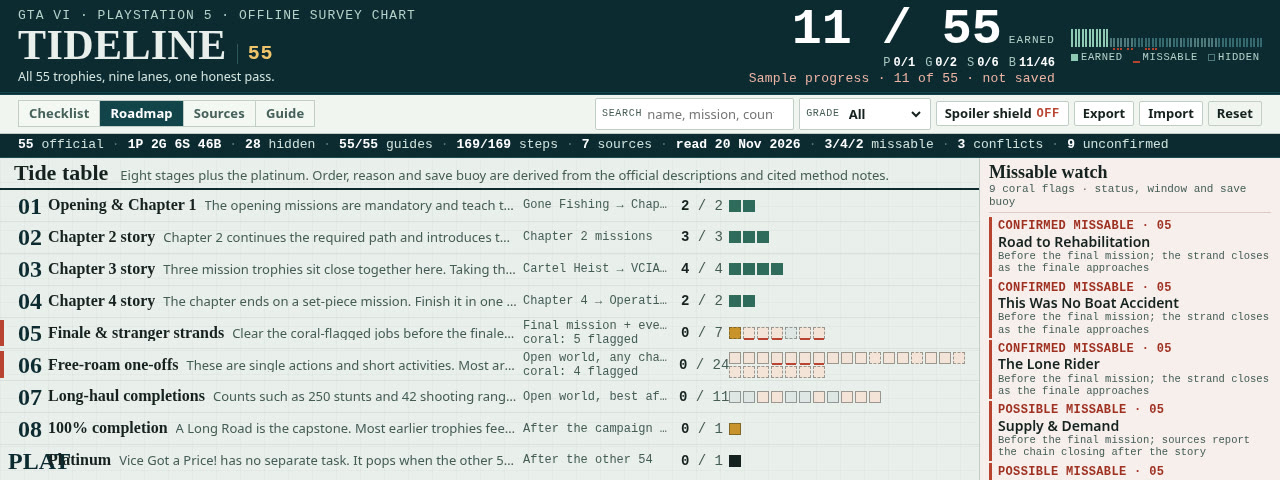
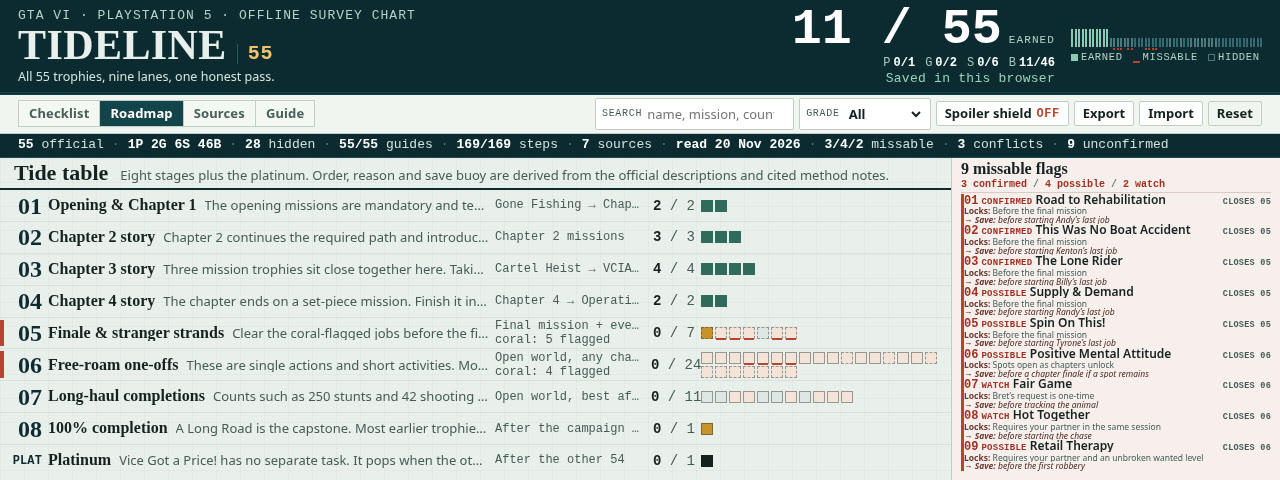
Show saved-state cover, a missable watch list, and citation domains
P0 presentation fixes for TIDELINE 55: the cover proves "Saved in this
browser" with the selected trophy row visible, the roadmap lists nine
missable flags in order, and citations show source domains and roles.
Recapture the four 1280x480 frames. Leave main.ts and vendor/ alone.

diff --git a/app/app.js b/app/app.js
@@ -154,6 +154,25 @@ function sourceName(n) {
   return sources[n] ? sources[n].name : `Source ${n}`;
 }
 
+function sourceDomain(n) {
+  const s = sources[n];
+  if (!s) return '';
+  if (!s.url) return 'in-game';
+  try {
+    return new URL(s.url).hostname.replace(/^www\./, '');
+  } catch (e) {
+    return String(s.url).replace(/^https?:\/\//, '').split('/')[0];
+  }
+}
+
+function compactClause(text) {
+  return String(text || '').split(/[;.]/)[0].replace(/\s+/g, ' ').trim();
+}
+
+function compactSave(text) {
+  return compactClause(String(text || '').replace(/^Manual save /i, ''));
+}
+
 function isHidden(t) {
   return spoiler && t.kind === 'story' && !earned.has(t.id);
 }
@@ -349,6 +368,21 @@ function renderNextUp() {
   els.nextup.title = isHidden(t) ? 'Next unearned trophy in roadmap order' : `Next unearned trophy: ${t.name}, lane ${stageFor(t).numeral}`;
 }
 
+function revealSelectedRow() {
+  const selectedTrophy = byId.get(selected);
+  if (!selectedTrophy || isHidden(selectedTrophy)) return;
+  const row = els.rows.querySelector(`.trow[data-id="${selected}"]`);
+  if (!row) return;
+  const listRect = els.rows.getBoundingClientRect();
+  const rowRect = row.getBoundingClientRect();
+  const pad = 4;
+  if (rowRect.top >= listRect.top + pad && rowRect.bottom <= listRect.bottom - pad) return;
+  const index = [...els.rows.querySelectorAll('.trow')].indexOf(row);
+  const above = Math.min(2, Math.max(0, index));
+  const target = els.rows.scrollTop + (rowRect.top - listRect.top) - above * rowRect.height;
+  els.rows.scrollTop = Math.max(0, target);
+}
+
 function renderList() {
   const list = visibleTrophies();
   const frag = document.createDocumentFragment();
@@ -412,13 +446,15 @@ function renderList() {
     frag.append(empty);
   }
   els.rows.replaceChildren(frag);
+  revealSelectedRow();
   els.listcount.textContent = `${list.length} shown · ${done} earned · ${earned.size}/${TOTAL} total`;
   renderNextUp();
 }
 
 function citationSup(n) {
+  const s = sources[n];
   const sup = el('sup', 'cite', `[${n}]`);
-  sup.title = sources[n] ? `${sources[n].name} — ${sources[n].publisher}` : `Source ${n}`;
+  sup.title = s ? `${s.name} · ${sourceDomain(n)} · ${s.type}` : `Source ${n}`;
   return sup;
 }
 
@@ -584,7 +620,9 @@ function renderSourceRail() {
     item.append(el('span', 'refnum', `[${key}]`));
     const body = el('div');
     body.append(el('div', 'src-name', s.name));
-    body.append(el('div', 'src-meta', `${s.publisher} · ${s.type}`));
+    const meta = el('div', 'src-meta');
+    meta.append(el('span', 'src-host', sourceDomain(key)), el('span', 'src-role', s.type));
+    body.append(meta);
     item.append(body, el('span', 'src-cover', `${usage[key] ? usage[key].trophies : 0}/55`));
     frag.append(item);
   }
@@ -601,7 +639,8 @@ function renderRoadmap() {
     const laneTrophies = s.trophies.map((id) => byId.get(id)).filter(Boolean);
     const done = laneTrophies.filter((t) => earned.has(t.id)).length;
     const lane = el('div', 'lane' + (s.missables.length ? ' is-missable' : ''));
-    lane.append(el('span', 'lane-num', s.numeral));
+    const numeral = el('span', 'lane-num' + (s.numeral.length > 2 ? ' is-word' : ''), s.numeral);
+    lane.append(numeral);
     const body = el('div', 'lane-body');
     body.append(el('div', 'lane-name', s.name));
     const sub = el('div', 'lane-sub');
@@ -633,22 +672,44 @@ function renderRoadmap() {
   }
   els.tide.replaceChildren(frag);
 
-  const missFrag = document.createDocumentFragment();
-  missFrag.append(el('h2', null, 'Missable watch'));
-  missFrag.append(el('p', 'panel-sub', `${trophies.filter((t) => t.missable !== 'none').length} coral flags · status, window and save buoy`));
   const flagged = [...trophies]
     .filter((t) => t.missable !== 'none')
     .sort((a, b) => (stageOrder.get(a.stage) ?? 99) - (stageOrder.get(b.stage) ?? 99) || a.id - b.id);
-  for (const t of flagged) {
+  const statusCount = (s) => flagged.filter((t) => t.missable === s).length;
+  const missFrag = document.createDocumentFragment();
+  missFrag.append(el('h2', null, `${flagged.length} missable flags`));
+  const sub = el('p', 'panel-sub');
+  sub.append(el('b', null, `${statusCount('confirmed')} confirmed`));
+  sub.append(document.createTextNode(' / '));
+  sub.append(el('b', null, `${statusCount('possible')} possible`));
+  sub.append(document.createTextNode(' / '));
+  sub.append(el('b', null, `${statusCount('watch')} watch`));
+  missFrag.append(sub);
+  flagged.forEach((t, i) => {
+    const stage = stageFor(t);
+    const fullLocks = t.window ? t.window.locks : 'window not documented';
+    const fullSave = t.window ? t.window.save : 'save advice not documented';
+    const locks = compactClause(fullLocks);
+    const save = compactSave(fullSave);
     const b = el('button', 'missable-item');
     b.type = 'button';
-    b.append(el('span', 'mi-status', `${STATUS_LABEL[t.missable]} · ${stageFor(t).numeral}`));
-    b.append(el('span', 'mi-name', isHidden(t) ? 'Hidden story trophy' : t.name));
-    b.append(el('span', 'mi-window', t.window ? t.window.locks : 'window not documented'));
-    b.append(el('span', 'mi-save', t.window ? t.window.save : 'save advice not documented'));
+    b.title = `${STATUS_LABEL[t.missable]} · ${stage ? stage.name : 'window'}. Locks: ${fullLocks}. Save: ${fullSave}`;
+    const top = el('span', 'mi-top');
+    top.append(el('span', 'mi-rank', String(i + 1).padStart(2, '0')));
+    top.append(el('span', 'mi-status', t.missable.toUpperCase()));
+    top.append(el('span', 'mi-name', isHidden(t) ? 'Hidden story trophy' : t.name));
+    top.append(el('span', 'mi-lane', `closes ${stage ? stage.numeral : '—'}`));
+    b.append(top);
+    const path = el('span', 'mi-path');
+    const lock = el('span', 'mi-lock');
+    lock.append(el('b', null, 'Locks: '), document.createTextNode(locks));
+    const saveNode = el('span', 'mi-save');
+    saveNode.append(el('b', null, 'Save: '), document.createTextNode(save));
+    path.append(lock, el('span', 'mi-arrow', '→'), saveNode);
+    b.append(path);
     b.addEventListener('click', () => openTrophy(t.id, 'guide'));
     missFrag.append(b);
-  }
+  });
   els.missables.replaceChildren(missFrag);
 }
 
@@ -818,7 +879,9 @@ function renderGuideSpread() {
     row.append(el('span', 'refnum', `[${key}]`));
     const body = el('div');
     body.append(el('span', 's-name', s.name));
-    body.append(el('span', 's-meta', `${s.publisher} · read ${dateLabel(s.read)}`));
+    const meta = el('span', 's-meta');
+    meta.append(el('span', 'src-host', sourceDomain(key)), el('span', 'src-role', s.type));
+    body.append(meta);
     row.append(body, el('span', 's-cover', `${usage[key].trophies}/55`));
     sourceWrap.append(row);
   }

diff --git a/app/style.css b/app/style.css
@@ -715,6 +715,19 @@ main {
 .refnum { font: 700 12px/1.3 var(--mono); color: var(--kelp); }
 .src-name { font-size: 14px; line-height: 1.18; font-weight: 600; }
 .src-meta { font: 11px/1.2 var(--mono); color: #435B55; margin-top: 1px; }
+.src-host { font-weight: 700; color: var(--kelp); }
+.src-role {
+  display: inline-block;
+  margin-left: 4px;
+  padding: 0 3px;
+  border: 1px solid #B9C9C2;
+  background: #F7FAF8;
+  color: #435B55;
+  font: 9px/1.4 var(--mono);
+  letter-spacing: 0.03em;
+  text-transform: uppercase;
+  white-space: nowrap;
+}
 .src-cover { font: 11.5px/1.2 var(--mono); color: var(--ink); white-space: nowrap; text-align: right; }
 .rail-note {
   margin-top: 5px;
@@ -727,7 +740,7 @@ main {
 .rail-note b { color: var(--ink); }
 
 /* ---------- roadmap ---------- */
-.view-roadmap.is-active { grid-template-columns: minmax(0, 1fr) 300px; }
+.view-roadmap.is-active { grid-template-columns: minmax(0, 1fr) 328px; }
 .roadmap-main {
   min-height: 0;
   display: flex;
@@ -768,6 +781,7 @@ main {
   background: var(--coral);
 }
 .lane-num { font: 700 26px/1 var(--serif); color: var(--tide); text-align: right; }
+.lane-num.is-word { font: 700 12px/1 var(--mono); letter-spacing: 0.01em; }
 .lane-body { min-width: 0; }
 .lane-name {
   font: 700 16px/1.05 var(--serif);
@@ -828,7 +842,7 @@ main {
   background: #F6EFEC;
 }
 .missable-panel h2 {
-  font: 700 20px/1.05 var(--serif);
+  font: 700 21px/1.05 var(--serif);
   margin-bottom: 1px;
 }
 .missable-panel .panel-sub {
@@ -838,6 +852,7 @@ main {
   border-bottom: 1px solid #DCC9C2;
   padding-bottom: 3px;
 }
+.missable-panel .panel-sub b { color: #9F2F1F; }
 .missable-item {
   display: block;
   width: 100%;
@@ -845,20 +860,63 @@ main {
   border: 0;
   border-left: 3px solid var(--coral);
   background: transparent;
-  padding: 2px 0 2px 6px;
+  padding: 3px 0 3px 6px;
   margin-bottom: 2px;
 }
 .missable-item:hover { background: #F1DDD6; }
+.mi-top {
+  display: flex;
+  align-items: baseline;
+  gap: 4px;
+  min-width: 0;
+}
+.mi-rank {
+  flex: none;
+  font: 700 14px/1 var(--mono);
+  color: #9F2F1F;
+}
 .mi-status {
-  display: block;
-  font: 700 12px/1.2 var(--mono);
+  flex: none;
+  font: 700 9.5px/1.2 var(--mono);
   letter-spacing: 0.03em;
   text-transform: uppercase;
   color: #9F2F1F;
 }
-.mi-name { display: block; font: 600 15px/1.16 var(--sans); color: var(--ink); }
-.mi-window { display: block; font: 11.5px/1.18 var(--mono); color: #435B55; }
-.mi-save { display: block; font: italic 11.5px/1.2 var(--sans); color: #4A2520; }
+.mi-lane {
+  flex: none;
+  margin-left: auto;
+  padding-left: 4px;
+  font: 700 9px/1.2 var(--mono);
+  letter-spacing: 0.03em;
+  text-transform: uppercase;
+  color: #435B55;
+  white-space: nowrap;
+}
+.mi-name {
+  flex: 1 1 auto;
+  min-width: 0;
+  font: 600 14px/1.16 var(--sans);
+  color: var(--ink);
+  white-space: nowrap;
+  overflow: hidden;
+  text-overflow: ellipsis;
+}
+.mi-path {
+  display: flex;
+  align-items: baseline;
+  gap: 3px;
+  min-width: 0;
+  margin-top: 1px;
+  font: 10px/1.18 var(--mono);
+  color: #435B55;
+  white-space: nowrap;
+  overflow: hidden;
+}
+.mi-path b { color: #6A3A31; }
+.mi-lock, .mi-save { min-width: 0; overflow: hidden; text-overflow: ellipsis; }
+.mi-lock { flex: 1 1 52%; }
+.mi-save { flex: 1 1 48%; font-style: italic; color: #4A2520; }
+.mi-arrow { flex: none; color: var(--coral); font-weight: 700; }
 
 /* ---------- sources view ---------- */
 .view-sources.is-active {
@@ -1171,13 +1229,16 @@ main {
   .spread-lock { padding: 2px 7px; font-size: 12px; line-height: 1.15; }
   .spread-lock b { font-size: 11px; }
   .spread-lock p { margin: 0; font-size: 12px; line-height: 1.15; }
-  .spread-source .s-meta { display: none; }
   .spread-source { padding: 1px 0; font-size: 12px; line-height: 1.16; }
+  .spread-source .s-name { display: block; white-space: nowrap; overflow: hidden; text-overflow: ellipsis; }
+  .spread-source .s-meta { display: block; font: 9px/1.15 var(--mono); margin-top: 1px; }
+  .spread-source .s-meta .src-role { margin-left: 3px; padding: 0 2px; font-size: 8px; }
   .missable-flag { padding-top: 3px; padding-bottom: 3px; }
   .missable-flag p { font-size: 13px; line-height: 1.2; }
   .steps-head { margin-top: 1px; margin-bottom: 1px; }
   .steps-foot { display: none; }
   .rail-note { display: none; }
+  .src-role { margin-left: 3px; padding: 0 2px; font-size: 8px; }
   .roadmap-head { display: flex; align-items: baseline; gap: 12px; padding-top: 3px; padding-bottom: 3px; }
   .section-title { font-size: 22px; }
   .section-sub { display: block; font-size: 13px; margin: 0; }
@@ -1193,11 +1254,19 @@ main {
   .tide-table { padding-bottom: 4px; }
   .trow-meta .hid, .trow-meta .refs { display: none; }
   .shield-banner { margin-left: -5px; margin-right: -5px; padding-left: 4px; padding-right: 4px; letter-spacing: 0; }
-  .missable-panel { padding-top: 5px; }
-  .missable-panel h2 { font-size: 18px; }
-  .mi-name { font-size: 14px; }
-  .mi-window { font-size: 10.5px; }
-  .mi-save { display: none; }
+  .missable-panel { padding: 3px 9px 0; }
+  .missable-panel h2 { font-size: 16px; }
+  .missable-panel .panel-sub { font-size: 10px; margin-bottom: 1px; padding-bottom: 1px; }
+  .missable-item { padding: 0; margin: 0; }
+  .mi-top { gap: 3px; font-size: 11px; }
+  .mi-rank { font-size: 12px; }
+  .mi-status { font-size: 9px; }
+  .mi-lane { font-size: 8.5px; }
+  .mi-name { font-size: 12px; line-height: 1; }
+  .mi-path { display: block; margin-top: 0; white-space: normal; font: 8.5px/1 var(--sans); }
+  .mi-lock, .mi-save { display: block; white-space: nowrap; }
+  .mi-arrow { display: none; }
+  .mi-save::before { content: "→ "; }
   .spread-left, .spread-right { padding: 6px 12px; }
   .spread-sources { grid-template-columns: repeat(2, minmax(0, 1fr)); }
   .spread-foot { display: none; }

diff --git a/P0-NOTES.md b/P0-NOTES.md
@@ -1,0 +1,29 @@
+# TIDELINE 55 — P0 notes
+
+## What changed
+
+- **P0-1 cover proof.** `shots.json` now seeds the cover, roadmap and guide frames instead of using `demo=11`, so the header reads **Saved in this browser**. The cover keeps trophy 28 selected (missable flag, 6/18 count, cited steps) and `renderList` scrolls the index pane to the selected row on load. `tools/shots.mjs` now accepts seeded count state.
+- **P0-2 missable watch list.** The roadmap side panel is now a counted, ordered list: **9 missable flags · 3 confirmed / 4 possible / 2 watch**. Each flag is numbered 01–09 in closing-lane order and shows `Locks: … → Save: …` on one compact line.
+- **P0-3 visible provenance.** Checklist and guide source rails show the short domain and a role tag (`OFFICIAL LIST`, `TRACKER`, `OFFICIAL TEXT`, `GUIDE`, `WIKI`); citation tooltips include the same domain and role. The guide frame keeps the existing “Sources disagree” note.
+- **Screenshots.** All four frames recaptured at 1280×480 and under 256 KiB. No fifth frame, no brand rewrite, no `vendor/` or `main.ts` changes.
+
+## How to verify
+
+```bash
+node --check app/app.js
+node tools/check-data.mjs
+node tools/check-offline.mjs
+
+BASE_URL=http://127.0.0.1:8765 CDP_URL=http://127.0.0.1:9223 node tools/shots.mjs
+python3 - <<'PY'
+from PIL import Image
+import os
+for f in sorted(os.listdir('screenshots')):
+    p = 'screenshots/' + f
+    print(f, Image.open(p).size, os.path.getsize(p))
+PY
+
+MAKEFUN_OUTPUT_DIR=/tmp/tg-p0-output node main.ts
+```
+
+Expected: four images, each `(1280, 480)` and ≤ 262144 bytes; `check-data` and `check-offline` exit 0; `main.ts` reports `Build OK` without audit warnings.
